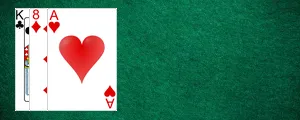
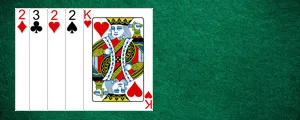
update buttons, on start bot event, fix dealer cards bug

Changed region(s): [[0.03, 0.05, 0.54, 0.95]]

diff --git a/handlers/personal_actions.py b/handlers/personal_actions.py
@@ -11,8 +11,9 @@ from functions import render_image
 dealer_score = 0
 
 # keyboard
-new_game_btn = types.KeyboardButton("Новая игра")
-new_game_markup = types.ReplyKeyboardMarkup(resize_keyboard=True).add(new_game_btn)
+main_menu_new_game_btn = types.KeyboardButton("Начать новую игру 🎮")
+main_menu_balance_btn = types.KeyboardButton("Просмотреть баланс 💰")
+main_menu_markup = types.ReplyKeyboardMarkup(resize_keyboard=True).add(main_menu_new_game_btn, main_menu_balance_btn)
 
 # get help command
 @dp.message_handler(commands=['help'])
@@ -39,45 +40,19 @@ async def rules(message: types.Message):
 @dp.message_handler(commands=['start'])
 async def process_start_game(message: types.Message):
     '''bot start'''
-    
-    global user
-
-    # updating deck of cards
-    with open('static/deck_of_cards.json','r', encoding="utf-8") as input_f:
-        deck = json.load(input_f)
-    input_f.close()
-
-    db.update(table='user', set='deck = ?', where='user_id = ?', values=(str(deck), message.from_user.id,))
-
-    user = db.load_user(message.from_user.id)
-    if (not user):
-        # register user
+    # register user if not exists
+    if (not db.load_user(message.from_user.id)):
         db.add_user(int(message.from_user.id))
-        db.update(table='user', set='is_game = ?', where='user_id = ?', values=(True, message.from_user.id,))
-
-
-    if user[0][2] < 1:
-        user = list(user[0])
-        user[2] = 100
-        user = tuple([user])
-        db.update(table='user', set='balance = ?, is_game = ?', where='user_id = ?', values=(100, True, message.from_user.id,))
-
-    else: db.update(table='user', set='is_game = ?', where='user_id = ?', values=(True, message.from_user.id,))
+    db.update('user','is_game = ?','user_id = ?',(False,message.from_user.id,))
     
-    # keyboard
-    game_type_markup_computer = types.KeyboardButton("Играть с компьютером 🤖")
-    game_type_markup_online = types.KeyboardButton("Играть с другом 👨🦰 (в разработке)")
-    game_type_markup = types.ReplyKeyboardMarkup(resize_keyboard=True).add(game_type_markup_computer, game_type_markup_online)
-    
[1 lines of base64/hex data omitted]
-    await message.answer("Выберите тип игры", reply_markup=game_type_markup)
+    await message.answer("♦ Добро пожаловать в блэк-джек ♦", reply_markup=main_menu_markup)
 
 # main game logic
 @dp.message_handler(content_types=["text"])
 async def process_handler(message: types.Message):
     '''button handlers'''
     if message.chat.type == "private":
-        if message.text == "Новая игра":
+        if message.text == "Начать новую игру 🎮":
             global user
             
             # updating deck of cards
@@ -86,8 +61,12 @@ async def process_handler(message: types.Message):
             input_f.close()
 
             db.update(table='user', set='deck = ?', where='user_id = ?', values=(str(deck), message.from_user.id,))
-
             user = db.load_user(message.from_user.id)
+
+            # list_accumulator = []
+            # for item in user:
+            #     list_accumulator.append({k: item[k] for k in item.keys()})
+            # print(list_accumulator)
 
             # update player score is he lost everything
             if user[0][2] < 1:
@@ -99,12 +78,12 @@ async def process_handler(message: types.Message):
             else: db.update(table='user', set='is_game = ?', where='user_id = ?', values=(True, message.from_user.id,))
 
             # keyboard
-            game_type_markup_computer = types.KeyboardButton("Играть с компьютером 🤖")
-            game_type_markup_online = types.KeyboardButton("Играть с другом 👨🦰 (в разработке)")
+            game_type_markup_computer = types.KeyboardButton("Играть с компьютером 🧠")
+            game_type_markup_online = types.KeyboardButton("Играть с другом 👨🦰 (в разработке </>)")
             game_type_markup = types.ReplyKeyboardMarkup(resize_keyboard=True).add(game_type_markup_computer, game_type_markup_online)
             await message.answer("Выберите тип игры", reply_markup=game_type_markup)
 
-        if message.text == "Играть с компьютером 🤖":
+        if message.text == "Играть с компьютером 🧠":
             user = db.load_user(message.from_user.id)
             if (user[0][3] == False):
                 await message.answer("Для начала начните новую игру")
@@ -112,12 +91,12 @@ async def process_handler(message: types.Message):
 
             # keyboard
             balance_btn = types.KeyboardButton("💰 Баланс: "+ str(user[0][2]))
-            pet_1_btn   = types.KeyboardButton("1 💲")
-            pet_10_btn  = types.KeyboardButton("10 💲")
-            pet_25_btn  = types.KeyboardButton("25 💲")
-            pet_50_btn  = types.KeyboardButton("50 💲")
-            pet_100_btn = types.KeyboardButton("100 💲")
-            pet_all_in_btn = types.KeyboardButton(str(user[0][2]) + " 💲")
+            pet_1_btn   = types.KeyboardButton("1 🪙")
+            pet_10_btn  = types.KeyboardButton("10 🪙")
+            pet_25_btn  = types.KeyboardButton("25 🪙")
+            pet_50_btn  = types.KeyboardButton("50 🪙")
+            pet_100_btn = types.KeyboardButton("100 🪙")
+            pet_all_in_btn = types.KeyboardButton(str(user[0][2]) + " 🪙")
 
             sample_markup = types.ReplyKeyboardMarkup(resize_keyboard=True).add(
                 pet_1_btn,
@@ -130,7 +109,7 @@ async def process_handler(message: types.Message):
             )
             await message.answer("Сделайте ставку", reply_markup=sample_markup)
 
-        if ("💲" in message.text):
+        if ("🪙" in message.text):
             user = db.load_user(message.from_user.id)
 
             if (user[0][3] == False):
@@ -147,9 +126,9 @@ async def process_handler(message: types.Message):
             dealer_score = 0
 
             # keyboard
-            more_btn = types.KeyboardButton("Еще")
-            stop_btn = types.KeyboardButton("Стоп")
-            give_up_btn = types.KeyboardButton("Сдаюсь")
+            more_btn = types.KeyboardButton("Еще 🟢")
+            stop_btn = types.KeyboardButton("Стоп 🛑")
+            give_up_btn = types.KeyboardButton("Сдаюсь 😵")
             game_controls_markup = types.ReplyKeyboardMarkup(resize_keyboard=True).add(
                 more_btn, stop_btn, give_up_btn
             )
@@ -210,14 +189,14 @@ async def process_handler(message: types.Message):
 
             # Player gets a blackjack  
             if (player_score == 21):
-                global new_game_markup
+                global main_menu_markup
                 current_win = float(pet)*float(1.5)
                 total_win = float(pet)*float(1.5)+user[0][2]
                 db.update(table='user', set='player_score = ?, is_game = ?, balance = ?', where='user_id = ?', values=(player_score, False, total_win, message.from_user.id, ))
-                await message.answer(f"У вас Блэк-Джек! Вы победили! 🥃\n<b>Чистый выигрыш</b>: {current_win} 💴", reply_markup=new_game_markup)
+                await message.answer(f"У вас Блэк-Джек! Вы победили! 🥃\n<b>Чистый выигрыш</b>: {current_win} 💴", reply_markup=main_menu_markup)
 
         # if player decides to go on
-        if (message.text == "Еще"):
+        if (message.text == "Еще 🟢"):
 
             user         = db.load_user(message.from_user.id)
             pet          = user[0][4]
@@ -253,8 +232,8 @@ async def process_handler(message: types.Message):
             render_image([dealer_cards[0]['image'], dealer_cards[1]['image']], 2, f"{message.from_user.id}_out_dealer_open.webp")
 
             # keyboard
-            more_btn = types.KeyboardButton("Еще")
-            stop_btn = types.KeyboardButton("Стоп")
+            more_btn = types.KeyboardButton("Еще 🟢")
+            stop_btn = types.KeyboardButton("Стоп 🛑")
             continue_game_controls_markup = types.ReplyKeyboardMarkup(resize_keyboard=True).add(more_btn, stop_btn)
             
             await message.answer(heading_msg, reply_markup=continue_game_controls_markup)
@@ -268,7 +247,7 @@ async def process_handler(message: types.Message):
                 await message.answer(f"⬆ 👽 <b>Карты дилера: </b> {dealer_score}")
                 
                 await bot.send_sticker(message.chat.id, sticker=open(f"static/images/{message.from_user.id}_out_player.webp", 'rb').read())
-                await message.answer(f"⬆ 👨💼 <b>Ваши карты: </b> {player_score}\nВы победили! 🥃\n<b>Чистый выигрыш</b>: {current_win} 💴", reply_markup=new_game_markup)
+                await message.answer(f"⬆ 👨💼 <b>Ваши карты: </b> {player_score}\nВы победили! 🥃\n<b>Чистый выигрыш</b>: {current_win} 💴", reply_markup=main_menu_markup)
 
                 db.update(table='user', set='balance = ?, is_game = ?', where='user_id = ?', values=(total_win, False, message.from_user.id, ))
 
@@ -292,7 +271,7 @@ async def process_handler(message: types.Message):
                     await message.answer(f"⬆ 👽 <b>Карты дилера: </b> {dealer_score}")
                     
                     await bot.send_sticker(message.chat.id, sticker=open(f"static/images/{message.from_user.id}_out_player.webp", 'rb').read())
-                    await message.answer(f"⬆ 👨💼 <b>Ваши карты: </b> {player_score}\nПеребор! Вы проиграли ❌\nПроигрыш: -{float(pet)}", reply_markup=new_game_markup)
+                    await message.answer(f"⬆ 👨💼 <b>Ваши карты: </b> {player_score}\nПеребор! Вы проиграли ❌\nПроигрыш: -{float(pet)}", reply_markup=main_menu_markup)
 
                     db.update(table='user', set='balance = ?, is_game = ?', where='user_id = ?', values=(total_win, False, message.from_user.id, ))
                     return;
@@ -304,7 +283,7 @@ async def process_handler(message: types.Message):
             await message.answer(f"⬆ 👨💼 <b>Ваши карты: </b> {player_score}")
 
         # if player decides to stand
-        if (message.text == "Стоп"):
+        if (message.text == "Стоп 🛑"):
 
             user         = db.load_user(message.from_user.id)
             pet          = user[0][4]
@@ -332,6 +311,7 @@ async def process_handler(message: types.Message):
                 dealer_cards.append(dealer_card)
                 deck.remove(dealer_card)
                 dealer_score += dealer_card.get('cost')
+                img_path_dealer = []
 
                 db.update(table='user', set='dealer_score = ?, deck = ?, dealer_cards = ?', where='user_id = ?', values=(str(dealer_score), str(deck), str(dealer_cards), message.from_user.id, ))
                 
@@ -363,7 +343,7 @@ async def process_handler(message: types.Message):
                         await message.answer(f"⬆ 👽 <b>Карты дилера: </b> {dealer_score}")
                         
                         await bot.send_sticker(message.chat.id, sticker=open(f"static/images/{message.from_user.id}_out_player.webp", 'rb').read())
-                        await message.answer(f"⬆ 👨💼 <b>Ваши карты: </b> {player_score}\nВы победили! 🥃\n<b>Чистый выигрыш</b>: {current_win} 💴", reply_markup=new_game_markup)
+                        await message.answer(f"⬆ 👨💼 <b>Ваши карты: </b> {player_score}\nВы победили! 🥃\n<b>Чистый выигрыш</b>: {current_win} 💴", reply_markup=main_menu_markup)
 
                         db.update(table='user', set='balance = ?, is_game = ?', where='user_id = ?', values=(total_win, False, message.from_user.id, ))
 
@@ -388,7 +368,7 @@ async def process_handler(message: types.Message):
                 await message.answer(f"⬆ 👽 <b>Карты дилера: </b> {dealer_score}")
                 
                 await bot.send_sticker(message.chat.id, sticker=open(f"static/images/{message.from_user.id}_out_player.webp", 'rb').read())
-                await message.answer(f"⬆ 👨💼 <b>Ваши карты: </b> {player_score}\nВы победили! 🥃\n<b>Чистый выигрыш</b>: {current_win} 💴", reply_markup=new_game_markup)
+                await message.answer(f"⬆ 👨💼 <b>Ваши карты: </b> {player_score}\nВы победили! 🥃\n<b>Чистый выигрыш</b>: {current_win} 💴", reply_markup=main_menu_markup)
 
                 db.update(table='user', set='balance = ?, is_game = ?', where='user_id = ?', values=(total_win, False, message.from_user.id, ))
 
@@ -400,7 +380,7 @@ async def process_handler(message: types.Message):
                 await message.answer(f"⬆ 👽 <b>Карты дилера: </b> {dealer_score}")
                 
                 await bot.send_sticker(message.chat.id, sticker=open(f"static/images/{message.from_user.id}_out_player.webp", 'rb').read())
-                await message.answer(f"⬆ 👨💼 <b>Ваши карты: </b> {player_score}\nВы проиграли ❌\nПроигрыш: -{float(pet)}", reply_markup=new_game_markup)
+                await message.answer(f"⬆ 👨💼 <b>Ваши карты: </b> {player_score}\nВы проиграли ❌\nПроигрыш: -{float(pet)}", reply_markup=main_menu_markup)
 
                 db.update(table='user', set='balance = ?, is_game = ?', where='user_id = ?', values=(total_win, False, message.from_user.id, ))
         
@@ -410,10 +390,10 @@ async def process_handler(message: types.Message):
                 await message.answer(f"⬆ 👽 <b>Карты дилера: </b> {dealer_score}")
                 
                 await bot.send_sticker(message.chat.id, sticker=open(f"static/images/{message.from_user.id}_out_player.webp", 'rb').read())
-                await message.answer(f"⬆ 👨💼 <b>Ваши карты: </b> {player_score}\nНичья", reply_markup=new_game_markup)
+                await message.answer(f"⬆ 👨💼 <b>Ваши карты: </b> {player_score}\nНичья", reply_markup=main_menu_markup)
 
         # if player gives up
-        if (message.text == "Сдаюсь"):
+        if (message.text == "Сдаюсь 😵"):
 
             user         = db.load_user(message.from_user.id)
             pet          = user[0][4]
@@ -435,7 +415,7 @@ async def process_handler(message: types.Message):
             await message.answer(f"⬆ 👽 <b>Карты дилера: </b> {dealer_score}")
             
             await bot.send_sticker(message.chat.id, sticker=open(f"static/images/{message.from_user.id}_out_player.webp", 'rb').read())
-            await message.answer(f"⬆ 👨💼 <b>Ваши карты: </b> {player_score}\nВы сдались :(\nПроигрыш: -{float(pet)}", reply_markup=new_game_markup)
+            await message.answer(f"⬆ 👨💼 <b>Ваши карты: </b> {player_score}\nВы сдались :(\nПроигрыш: -{float(pet)}", reply_markup=main_menu_markup)
 
             db.update(table='user', set='balance = ?, is_game = ?', where='user_id = ?', values=(total_win, False, message.from_user.id, ))
 
